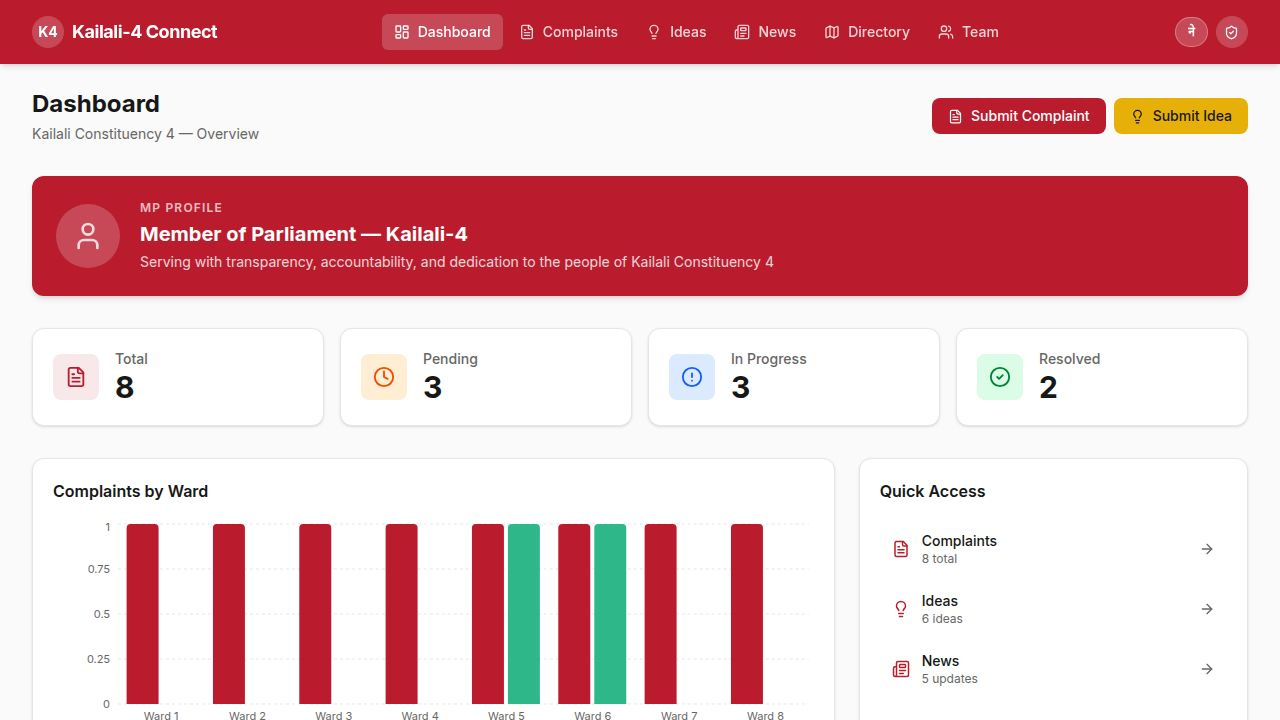
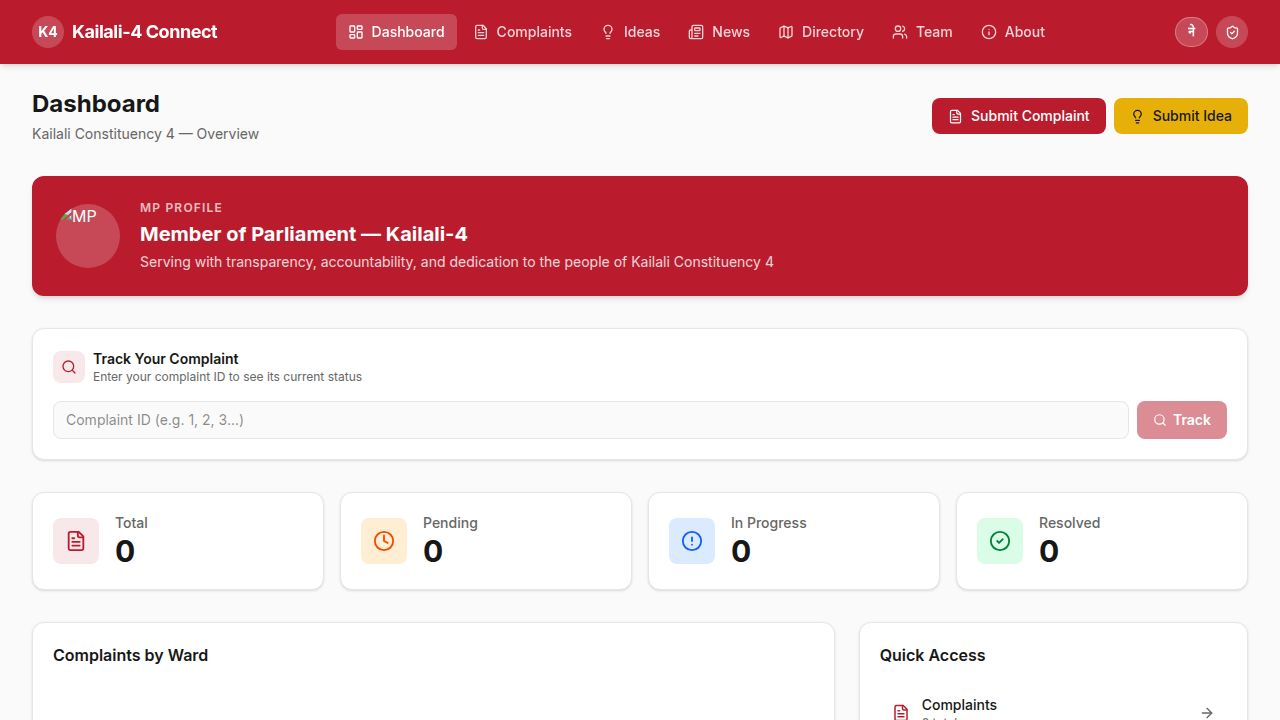
Add an About page and enhance complaint filtering with ward selection
Add a new "About" page to the application and implement ward-based filtering for complaints in the admin panel.

Replit-Commit-Author: Agent
Replit-Commit-Session-Id: f81cf678-9843-4751-b8d3-94bf1dfb6dd1
Replit-Commit-Checkpoint-Type: full_checkpoint
Replit-Commit-Event-Id: c27eeadc-88ab-4da3-ac41-31e8fb507235
Replit-Commit-Screenshot-Url: https://storage.googleapis.com/screenshot-production-us-central1/82a53197-ca2c-4a2a-a70c-d0626b200635/f81cf678-9843-4751-b8d3-94bf1dfb6dd1/8L916dA
Replit-Helium-Checkpoint-Created: true

diff --git a/artifacts/kailali4-connect/src/pages/About.tsx b/artifacts/kailali4-connect/src/pages/About.tsx
@@ -1,0 +1,259 @@
+import { useI18n } from "@/lib/i18n";
+import { useGetMpProfile, useGetSocialLinks, useGetDashboardStats, useListTeamMembers } from "@workspace/api-client-react";
+import { motion } from "framer-motion";
+import {
+  User, Facebook, Youtube, Globe, MapPin, Phone, Mail,
+  FileText, Users, CheckCircle2, Building2, Info, ExternalLink,
+} from "lucide-react";
+import { cn } from "@/lib/utils";
+
+export default function About() {
+  const { language } = useI18n();
+  const { data: mpProfile }    = useGetMpProfile();
+  const { data: socialLinks }  = useGetSocialLinks();
+  const { data: stats }        = useGetDashboardStats();
+  const { data: teamMembers }  = useListTeamMembers({});
+
+  const hasSocial = socialLinks?.facebook || socialLinks?.youtube || socialLinks?.website;
+
+  const infoCards = [
+    {
+      icon: Building2,
+      title: language === "NP" ? "निर्वाचन क्षेत्र" : "Constituency",
+      value: language === "NP" ? "कैलाली निर्वाचन क्षेत्र नम्बर ४" : "Kailali Constituency No. 4",
+      colorCls: "bg-blue-50 text-blue-600",
+    },
+    {
+      icon: MapPin,
+      title: language === "NP" ? "पालिकाहरू" : "Palikas Covered",
+      value: language === "NP" ? "गोदावरी, गौरीगंगा, चुरे, मोहनयाल" : "Godawari, Gauriganga, Chure, Mohanyal",
+      colorCls: "bg-green-50 text-green-600",
+    },
+    {
+      icon: FileText,
+      title: language === "NP" ? "कुल उजुरी" : "Complaints Filed",
+      value: String(stats?.total ?? 0),
+      colorCls: "bg-orange-50 text-orange-600",
+    },
+    {
+      icon: CheckCircle2,
+      title: language === "NP" ? "समाधान भएका" : "Resolved",
+      value: String(stats?.resolved ?? 0),
+      colorCls: "bg-emerald-50 text-emerald-600",
+    },
+    {
+      icon: Users,
+      title: language === "NP" ? "स्वयंसेवकहरू" : "Volunteers",
+      value: String(teamMembers?.length ?? 0),
+      colorCls: "bg-purple-50 text-purple-600",
+    },
+  ];
+
+  return (
+    <div className="space-y-8 max-w-4xl mx-auto">
+
+      {/* Page header */}
+      <div>
+        <h1 className="text-2xl font-bold text-foreground">
+          {language === "NP" ? "हाम्रो बारेमा" : "About Us"}
+        </h1>
+        <p className="text-muted-foreground text-sm mt-1">
+          {language === "NP"
+            ? "कैलाली-४ डिजिटल सांसद कार्यालय प्रणाली"
+            : "Kailali-4 Digital MP Office System"}
+        </p>
+      </div>
+
+      {/* MP Profile Banner */}
+      <motion.div
+        initial={{ opacity: 0, y: 8 }}
+        animate={{ opacity: 1, y: 0 }}
+        className="bg-primary text-primary-foreground rounded-2xl p-6 sm:p-8 flex flex-col sm:flex-row items-center sm:items-start gap-6 shadow-lg"
+      >
+        <div className="w-24 h-24 rounded-full bg-white/20 flex-shrink-0 overflow-hidden flex items-center justify-center border-4 border-white/30">
+          {mpProfile?.photoUrl
+            ? <img src={mpProfile.photoUrl} alt="MP" className="w-full h-full object-cover" />
+            : <User size={40} className="opacity-80" />
+          }
+        </div>
+        <div className="text-center sm:text-left">
+          <p className="text-xs font-semibold uppercase tracking-widest opacity-70 mb-1">
+            {language === "NP" ? "सांसद प्रोफाइल" : "Member of Parliament"}
+          </p>
+          <h2 className="text-2xl font-bold">
+            {mpProfile?.name ?? "Member of Parliament — Kailali-4"}
+          </h2>
+          <p className="text-sm opacity-80 mt-2 leading-relaxed max-w-xl">
+            {mpProfile?.message ?? "Serving with transparency, accountability, and dedication to the people of Kailali Constituency 4."}
+          </p>
+          {hasSocial && (
+            <div className="flex flex-wrap gap-2 mt-4 justify-center sm:justify-start">
+              {socialLinks?.facebook && (
+                <a href={socialLinks.facebook} target="_blank" rel="noopener noreferrer"
+                  className="flex items-center gap-1.5 px-3 py-1.5 rounded-lg bg-white/20 hover:bg-white/30 transition-colors text-xs font-medium">
+                  <Facebook size={13} /> Facebook <ExternalLink size={10} className="opacity-60" />
+                </a>
+              )}
+              {socialLinks?.youtube && (
+                <a href={socialLinks.youtube} target="_blank" rel="noopener noreferrer"
+                  className="flex items-center gap-1.5 px-3 py-1.5 rounded-lg bg-white/20 hover:bg-white/30 transition-colors text-xs font-medium">
+                  <Youtube size={13} /> YouTube <ExternalLink size={10} className="opacity-60" />
+                </a>
+              )}
+              {socialLinks?.website && (
+                <a href={socialLinks.website} target="_blank" rel="noopener noreferrer"
+                  className="flex items-center gap-1.5 px-3 py-1.5 rounded-lg bg-white/20 hover:bg-white/30 transition-colors text-xs font-medium">
+                  <Globe size={13} /> Website <ExternalLink size={10} className="opacity-60" />
+                </a>
+              )}
+            </div>
+          )}
+        </div>
+      </motion.div>
+
+      {/* Stats grid */}
+      <div className="grid grid-cols-2 sm:grid-cols-3 lg:grid-cols-5 gap-3">
+        {infoCards.map(({ icon: Icon, title, value, colorCls }, idx) => (
+          <motion.div
+            key={title}
+            initial={{ opacity: 0, scale: 0.95 }}
+            animate={{ opacity: 1, scale: 1 }}
+            transition={{ delay: idx * 0.05 }}
+            className="bg-card border border-border rounded-xl p-4 text-center"
+          >
+            <div className={cn("w-9 h-9 rounded-lg flex items-center justify-center mx-auto mb-2", colorCls)}>
+              <Icon size={18} />
+            </div>
+            <p className="text-lg font-bold text-foreground">{value}</p>
+            <p className="text-xs text-muted-foreground mt-0.5 leading-tight">{title}</p>
+          </motion.div>
+        ))}
+      </div>
+
+      {/* About the system */}
+      <motion.div
+        initial={{ opacity: 0, y: 8 }}
+        animate={{ opacity: 1, y: 0 }}
+        transition={{ delay: 0.1 }}
+        className="bg-card border border-border rounded-2xl p-6 space-y-4"
+      >
+        <div className="flex items-center gap-2">
+          <Info size={18} className="text-primary" />
+          <h3 className="font-semibold text-foreground">
+            {language === "NP" ? "प्रणालीको बारेमा" : "About the System"}
+          </h3>
+        </div>
+        <p className="text-sm text-muted-foreground leading-relaxed">
+          {language === "NP"
+            ? "कैलाली-४ डिजिटल सांसद कार्यालय प्रणाली एक आधुनिक नागरिक-प्रविधि मञ्च हो जसले कैलाली निर्वाचन क्षेत्र नम्बर ४ का नागरिकहरूलाई सरकारसँग जोड्छ। यस प्रणालीमार्फत नागरिकहरू आफ्ना उजुरी दर्ता गर्न, विचार साझा गर्न, र सांसदीय कार्यालयको गतिविधिबारे जानकारी प्राप्त गर्न सक्छन्।"
+            : "The Kailali-4 Digital MP Office System is a modern civic-tech platform that connects the citizens of Kailali Constituency 4 with their elected representative. Through this system, citizens can file complaints, share ideas for community development, track the status of their submissions, and stay informed about the work of the parliamentary office."
+          }
+        </p>
+        <div className="grid sm:grid-cols-2 gap-3 pt-2">
+          {[
+            {
+              title: language === "NP" ? "उजुरी व्यवस्थापन" : "Complaint Management",
+              desc:  language === "NP" ? "उजुरी दर्ता गर्नुस् र स्थिति ट्र्याक गर्नुस्" : "File complaints and track their resolution status in real time",
+            },
+            {
+              title: language === "NP" ? "विचार मञ्च" : "Ideas Platform",
+              desc:  language === "NP" ? "विकासका विचार साझा गर्नुस् र मतदान गर्नुस्" : "Share development ideas and vote on community proposals",
+            },
+            {
+              title: language === "NP" ? "पालिका निर्देशिका" : "Palika Directory",
+              desc:  language === "NP" ? "वडा र पालिका जानकारी ब्राउज गर्नुस्" : "Browse ward and palika information across the constituency",
+            },
+            {
+              title: language === "NP" ? "स्वयंसेवक टोली" : "Volunteer Team",
+              desc:  language === "NP" ? "स्वयंसेवक टोलीमा सामेल हुनुस्" : "Join the volunteer team and contribute to your community",
+            },
+          ].map(({ title, desc }) => (
+            <div key={title} className="flex gap-3 p-3 bg-muted/40 rounded-xl">
+              <div className="w-2 h-2 rounded-full bg-primary mt-1.5 flex-shrink-0" />
+              <div>
+                <p className="text-sm font-medium text-foreground">{title}</p>
+                <p className="text-xs text-muted-foreground mt-0.5">{desc}</p>
+              </div>
+            </div>
+          ))}
+        </div>
+      </motion.div>
+
+      {/* Contact info */}
+      <motion.div
+        initial={{ opacity: 0, y: 8 }}
+        animate={{ opacity: 1, y: 0 }}
+        transition={{ delay: 0.15 }}
+        className="bg-card border border-border rounded-2xl p-6 space-y-4"
+      >
+        <div className="flex items-center gap-2">
+          <Phone size={18} className="text-primary" />
+          <h3 className="font-semibold text-foreground">
+            {language === "NP" ? "सम्पर्क जानकारी" : "Contact Information"}
+          </h3>
+        </div>
+        <div className="grid sm:grid-cols-3 gap-4">
+          {[
+            { icon: MapPin, label: language === "NP" ? "कार्यालय ठेगाना" : "Office Address",   value: language === "NP" ? "धनगढी, कैलाली" : "Dhangadhi, Kailali" },
+            { icon: Phone,  label: language === "NP" ? "फोन" : "Phone",                        value: "+977-091-XXXXXX" },
+            { icon: Mail,   label: language === "NP" ? "इमेल" : "Email",                       value: "[email redacted]" },
+          ].map(({ icon: Icon, label, value }) => (
+            <div key={label} className="flex items-start gap-3">
+              <div className="p-2 rounded-lg bg-primary/10 flex-shrink-0">
+                <Icon size={14} className="text-primary" />
+              </div>
+              <div>
+                <p className="text-xs text-muted-foreground font-medium">{label}</p>
+                <p className="text-sm text-foreground font-medium mt-0.5">{value}</p>
+              </div>
+            </div>
+          ))}
+        </div>
+      </motion.div>
+
+      {/* Social links section — shown when at least one link is saved */}
+      {hasSocial && (
+        <motion.div
+          initial={{ opacity: 0, y: 8 }}
+          animate={{ opacity: 1, y: 0 }}
+          transition={{ delay: 0.2 }}
+          className="bg-card border border-border rounded-2xl p-6 space-y-4"
+        >
+          <div className="flex items-center gap-2">
+            <Globe size={18} className="text-primary" />
+            <h3 className="font-semibold text-foreground">
+              {language === "NP" ? "सामाजिक सञ्जाल" : "Social Media"}
+            </h3>
+          </div>
+          <div className="flex flex-wrap gap-3">
+            {socialLinks?.facebook && (
+              <a href={socialLinks.facebook} target="_blank" rel="noopener noreferrer"
+                className="flex items-center gap-2.5 px-5 py-3 bg-blue-50 text-blue-700 border border-blue-200 rounded-xl hover:bg-blue-100 transition-colors font-medium text-sm">
+                <Facebook size={18} />
+                {language === "NP" ? "फेसबुक" : "Facebook"}
+                <ExternalLink size={12} className="opacity-60" />
+              </a>
+            )}
+            {socialLinks?.youtube && (
+              <a href={socialLinks.youtube} target="_blank" rel="noopener noreferrer"
+                className="flex items-center gap-2.5 px-5 py-3 bg-red-50 text-red-700 border border-red-200 rounded-xl hover:bg-red-100 transition-colors font-medium text-sm">
+                <Youtube size={18} />
+                {language === "NP" ? "युट्युब" : "YouTube"}
+                <ExternalLink size={12} className="opacity-60" />
+              </a>
+            )}
+            {socialLinks?.website && (
+              <a href={socialLinks.website} target="_blank" rel="noopener noreferrer"
+                className="flex items-center gap-2.5 px-5 py-3 bg-green-50 text-green-700 border border-green-200 rounded-xl hover:bg-green-100 transition-colors font-medium text-sm">
+                <Globe size={18} />
+                {language === "NP" ? "वेबसाइट" : "Website"}
+                <ExternalLink size={12} className="opacity-60" />
+              </a>
+            )}
+          </div>
+        </motion.div>
+      )}
+
+    </div>
+  );
+}

diff --git a/artifacts/kailali4-connect/src/pages/Admin.tsx b/artifacts/kailali4-connect/src/pages/Admin.tsx
@@ -251,6 +251,7 @@ function ComplaintsTab({ role }: { role: AdminRole }) {
 
   const [filterStatus, setFilterStatus] = useState<string>("");
   const [filterPalika, setFilterPalika] = useState<string>("");
+  const [filterWard, setFilterWard]     = useState<string>("");
   const [search, setSearch] = useState("");
   const [confirmDeleteAll, setConfirmDeleteAll] = useState(false);
   const [confirmDelete, setConfirmDelete] = useState<number | null>(null);
@@ -271,9 +272,10 @@ function ComplaintsTab({ role }: { role: AdminRole }) {
 
   const filtered = complaints.filter(c => {
     const matchPalika = !filterPalika || c.palika === filterPalika;
+    const matchWard   = !filterWard   || String(c.ward) === filterWard;
     const matchSearch = !search || c.name?.toLowerCase().includes(search.toLowerCase()) ||
       c.description?.toLowerCase().includes(search.toLowerCase());
-    return matchPalika && matchSearch;
+    return matchPalika && matchWard && matchSearch;
   });
 
   const cycleStatus = (id: number, current: string) => {
@@ -306,11 +308,22 @@ function ComplaintsTab({ role }: { role: AdminRole }) {
         </select>
         <select
           value={filterPalika}
-          onChange={(e) => setFilterPalika(e.target.value)}
+          onChange={(e) => { setFilterPalika(e.target.value); setFilterWard(""); }}
           className="px-2 py-1.5 text-sm border border-border rounded-lg bg-background focus:outline-none"
         >
           <option value="">{language === "NP" ? "सबै पालिका" : "All Palika"}</option>
           {PALIKAS.map(p => <option key={p} value={p}>{p}</option>)}
+        </select>
+        <select
+          value={filterWard}
+          onChange={(e) => setFilterWard(e.target.value)}
+          disabled={!filterPalika}
+          className="px-2 py-1.5 text-sm border border-border rounded-lg bg-background focus:outline-none disabled:opacity-50"
+        >
+          <option value="">{language === "NP" ? "सबै वडा" : "All Wards"}</option>
+          {(filterPalika ? WARD_MAP[filterPalika] ?? [] : []).map(w => (
+            <option key={w} value={String(w)}>Ward {w}</option>
+          ))}
         </select>
         {isSuperAdmin && (
           !confirmDeleteAll ? (

diff --git a/artifacts/kailali4-connect/src/components/Layout.tsx b/artifacts/kailali4-connect/src/components/Layout.tsx
@@ -1,7 +1,7 @@
 import { ReactNode, useState } from "react";
 import { Link, useLocation } from "wouter";
 import { useI18n } from "@/lib/i18n";
-import { LayoutDashboard, FileText, Lightbulb, Newspaper, Map, Users, ShieldCheck, Menu, X, Facebook, Youtube, Globe } from "lucide-react";
+import { LayoutDashboard, FileText, Lightbulb, Newspaper, Map, Users, ShieldCheck, Menu, X, Facebook, Youtube, Globe, Info } from "lucide-react";
 import { motion, AnimatePresence } from "framer-motion";
 import { cn } from "@/lib/utils";
 import { useGetSocialLinks } from "@workspace/api-client-react";
@@ -23,6 +23,7 @@ export default function Layout({ children }: LayoutProps) {
     { href: "/news", label: t("nav.news"), icon: Newspaper },
     { href: "/directory", label: t("nav.directory"), icon: Map },
     { href: "/team", label: t("nav.team"), icon: Users },
+    { href: "/about", label: t("nav.about") ?? "About", icon: Info },
   ];
 
   const isActive = (href: string) => {

diff --git a/artifacts/kailali4-connect/src/App.tsx b/artifacts/kailali4-connect/src/App.tsx
@@ -16,6 +16,7 @@ import NewsNew from "@/pages/NewsNew";
 import Directory from "@/pages/Directory";
 import Team from "@/pages/Team";
 import Admin from "@/pages/Admin";
+import About from "@/pages/About";
 import NotFound from "@/pages/not-found";
 
 const queryClient = new QueryClient({
@@ -41,6 +42,7 @@ function Router() {
         <Route path="/news" component={News} />
         <Route path="/directory" component={Directory} />
         <Route path="/team" component={Team} />
+        <Route path="/about" component={About} />
         <Route path="/admin" component={Admin} />
         <Route component={NotFound} />
       </Switch>

diff --git a/artifacts/kailali4-connect/src/lib/i18n.tsx b/artifacts/kailali4-connect/src/lib/i18n.tsx
@@ -13,6 +13,7 @@ const en: Translations = {
   "nav.directory": "Directory",
   "nav.team": "Team",
   "nav.admin": "Admin",
+  "nav.about": "About",
   "btn.submitComplaint": "Submit Complaint",
   "btn.submitIdea": "Submit Idea",
   "dashboard.total": "Total",
@@ -55,6 +56,7 @@ const np: Translations = {
   "nav.directory": "निर्देशिका",
   "nav.team": "टोली",
   "nav.admin": "एडमिन",
+  "nav.about": "हाम्रो बारे",
   "btn.submitComplaint": "उजुरी दिनुस्",
   "btn.submitIdea": "विचार राख्नुस्",
   "dashboard.total": "कुल",